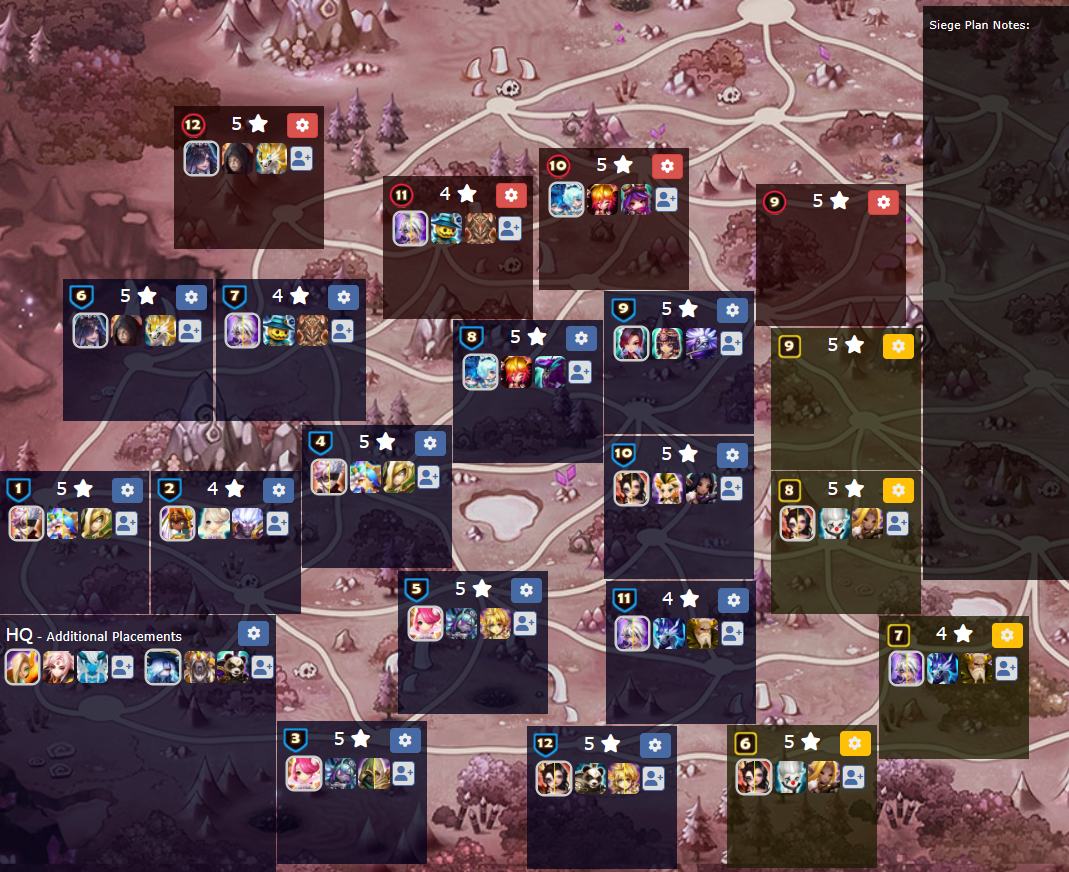
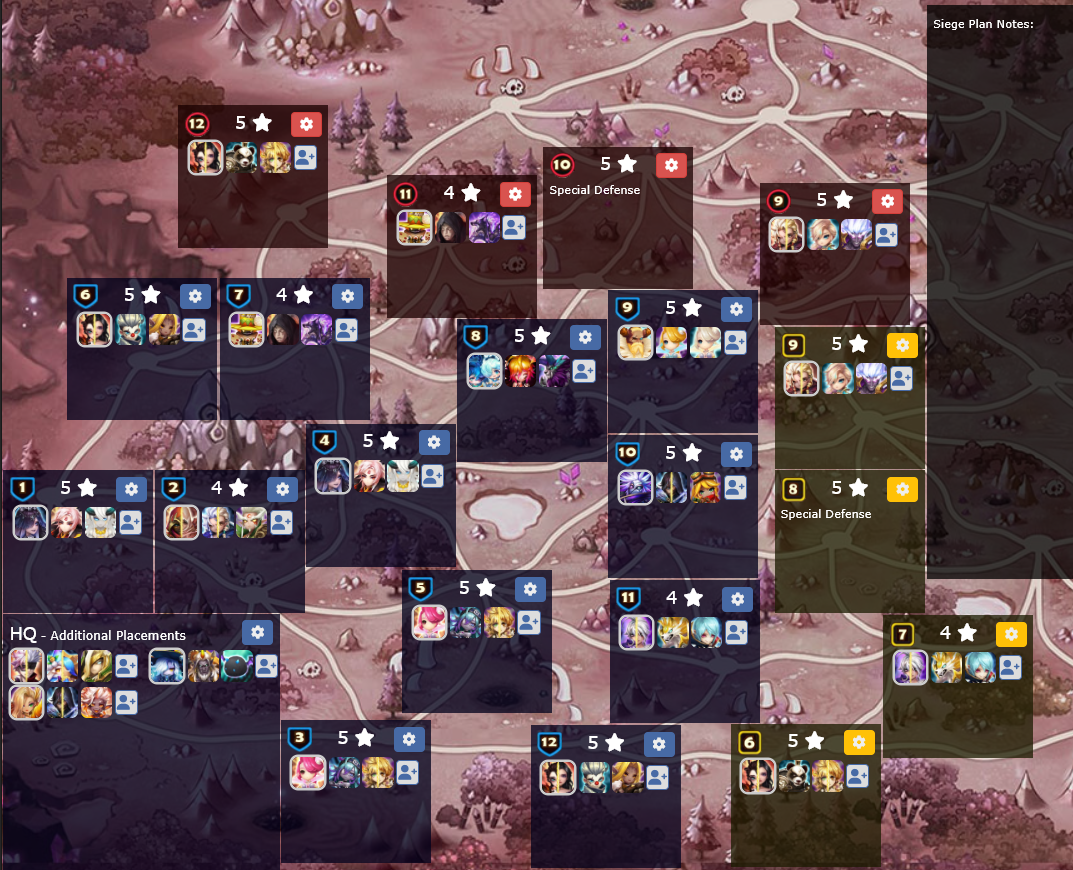
Season 21

diff --git a/index.html b/index.html
@@ -17,7 +17,7 @@
 						<div class="content">
 							<div class="inner">
 								<h1>Rock Bottom</h1>
-								<p>Season 20 Siege Defense</p>
+								<p>Season 21 Siege Defense</p>
 							</div>
 						</div>
 						<nav>
@@ -31,7 +31,7 @@
 				<!-- Main -->
 			<div id="main">
 				<article id="towers">
-					<h2 class="major">Season 20 Siege Defense</h2>
+					<h2 class="major">Season 21 Siege Defense</h2>
 					<div class="container">
 
 
@@ -39,6 +39,18 @@
 				<!-- 5 Star Towers -->
 			<div class="section">
 					<h2>NAT5<br>Defense</h2>
+
+					<div class="grid standard-pattern">
+						<img src="images/LD5/NephMaxi.png" alt="Monster">
+						<img src="images/5Star/Lionel.png" alt="Monster">
+						<div class="monster-wrapper">
+								<img src="images/5Star/Christina.png" alt="Monster">
+								<div class="alt-box">
+									<img src="images/5Star/Driana.png" alt="Alt Monster">
+								</div>
+							</div>
+						</div>
+
 								<div class="grid standard-pattern">
 									<img src="images/5Star/Tarnisha.png" alt="Monster">
 									<img src="images/5Star/Zenitsu.png" alt="Monster">
@@ -53,91 +65,55 @@
 										</div>
 									</div>
 
-									<div class="grid standard-pattern">
-										<img src="images/5Star/Tarnisha.png" alt="Monster">
-										<img src="images/5Star/Ethna.png" alt="Monster">
-										<div class="monster-wrapper">
-												<img src="images/5Star/Visa.png" alt="Monster">
-												<div class="alt-box">
-													<img src="images/LD5/Xiana.png" alt="Alt Monster">
-													<img src="images/LD5/Beelzebub.png" alt="Alt Monster">
-													<img src="images/LD5/Jaara.png" alt="Alt Monster">
-													<img src="images/LD5/Kiki.png" alt="Alt Monster">
-													<img src="images/LD5/Dyeus.png" alt="Alt Monster">
-													<img src="images/LD5/Deva.png" alt="Alt Monster">
-												</div>
-											</div>
-										</div>	
+	
 				
-									<div class="grid standard-pattern">
-										<img src="images/5Star/Tarnisha.png" alt="Monster">
-										<img src="images/5Star/Sav.png" alt="Monster">
-										<div class="monster-wrapper">
-												<img src="images/4Star/Figaro.png" alt="Monster">
-												<div class="alt-box">
-													<img src="images/LD5/Lora.png" alt="Alt Monster">
-													<img src="images/LD5/Narsha.png" alt="Alt Monster">
-													<img src="images/LD5/Xiana.png" alt="Alt Monster">
-													<img src="images/LD5/Celia.png" alt="Alt Monster">
-													<img src="images/LD5/Nyx.png" alt="Alt Monster">
+										<div class="grid standard-pattern">
+											<img src="images/5Star/Tarnisha.png" alt="Monster">
+											<img src="images/5Star/Sav.png" alt="Monster">
+											<div class="monster-wrapper">
+													<img src="images/4Star/Figaro.png" alt="Monster">
+													<div class="alt-box">
+														<img src="images/LD5/Lora.png" alt="Alt Monster">
+														<img src="images/LD5/Narsha.png" alt="Alt Monster">
+														<img src="images/LD5/Xiana.png" alt="Alt Monster">
+														<img src="images/LD5/Celia.png" alt="Alt Monster">
+													
+													</div>
 												</div>
-											</div>
-										</div>	
+											</div>	
 
 										<div class="grid standard-pattern">
-											<img src="images/5Star/Lamiella.png" alt="Monster">
-											<img src="images/4Star/Rex.png" alt="Monster">
+											<img src="images/5Star/Twin.png" alt="Monster">
+											<img src="images/5Star/Ren.png" alt="Monster">
 											<div class="monster-wrapper">
-													<img src="images/4Star/Eshir.png" alt="Monster">
+													<img src="images/LD5/Zeratu.png" alt="Monster">
 													<div class="alt-box">
-														<img src="images/LD5/Craka.png" alt="Alt Monster">
-														<img src="images/LD5/Zerath.png" alt="Alt Monster">
-														<img src="images/LD5/TL.png" alt="Alt Monster">
+														<img src="images/LD5/Cadiz.png" alt="Alt Monster">
+														<img src="images/LD5/Bella.png" alt="Alt Monster">
+														<img src="images/LD5/Ritsu.png" alt="Alt Monster">
+														<img src="images/LD5/Narsha.png" alt="Alt Monster">
+														<img src="images/LD5/Salah.png" alt="Alt Monster">
 													</div>
 												</div>
 											</div>
 				
-						<div class="grid standard-pattern">
-							<img src="images/5Star/Twin.png" alt="Monster">
-							<img src="images/5Star/Ren.png" alt="Monster">
-							<div class="monster-wrapper">
-									<img src="images/LD5/Zeratu.png" alt="Monster">
-									<div class="alt-box">
-										<img src="images/LD5/Cadiz.png" alt="Alt Monster">
-										<img src="images/LD5/Eludia.png" alt="Alt Monster">
-										<img src="images/LD5/Bella.png" alt="Alt Monster">
-										<img src="images/LD5/Ritsu.png" alt="Alt Monster">
-										<img src="images/LD5/Narsha.png" alt="Alt Monster">
+											<div class="grid modified-pattern">
+												<img src="images/5Star/Lamiella.png" alt="Monster">
+												<img src="images/5Star/Jeogun.png" alt="Monster">
+												<img class="force-white" src="images/LD5/Elsharion.png" alt="Monster">
+											</div>
 
-									</div>
-								</div>
-							</div>
-
-							<div class="grid modified-pattern">
-								<img src="images/5Star/Fire-Gojo.png" alt="Monster">
-								<img src="images/5Star/Adriana.png" alt="Monster">
-								<img class="force-white" src="images/5Star/Odin.png" alt="Monster">
-							</div>
-
-							<div class="grid standard-pattern">
-								<img src="images/4Star/Platy.png" alt="Monster">
-								<img src="images/5Star/Irene.png" alt="Monster">
-								<div class="monster-wrapper">
-										<img src="images/5Star/Zenitsu.png" alt="Monster">
-										<div class="alt-box">
-											<img src="images/5Star/Shahat.png" alt="Alt Monster">
-											<img src="images/LD5/Douman.png" alt="Alt Monster">
-											<img src="images/LD5/Audrey.png" alt="Alt Monster">
-											<img src="images/LD5/Miying.png" alt="Alt Monster">
-										</div>
-									</div>
-								</div>
+											<div class="grid modified-pattern">
+												<img src="images/4Star/Platy.png" alt="Monster">
+												<img src="images/5Star/Irene.png" alt="Monster">
+												<img class="force-white" src="images/5Star/Zenitsu.png" alt="Monster">
+											</div>
 
 										<div class="grid standard-pattern">
 												<img src="images/5Star/Ashour.png" alt="Monster">
 												<img src="images/5Star/Taranys.png" alt="Monster">
 												<div class="monster-wrapper">
-														<img src="images/5Star/Visa.png" alt="Monster">
+														<img src="images/5Star/Brita.png" alt="Monster">
 														<div class="alt-box">
 															<img src="images/LD5/Craka.png" alt="Alt Monster">
 															<img src="images/LD5/Cadiz.png" alt="Alt Monster">
@@ -148,39 +124,44 @@
 														</div>
 													</div>
 												</div>
+
+
 						</div>
 				<!-- LD Variations -->
 			<div class="section">
-				<h2>Special<br>Defense</h2>
-
-				<div class="grid modified-pattern">
-					<img src="images/LD5/NephMaxi.png" alt="Monster">
-					<img src="images/5Star/Triton.png" alt="Monster">
-					<img class="force-white" src="images/5Star/Amber.png" alt="Monster">
-				</div>	
-
+				<h2>Special<br>Defense</h2>	
 
 				<div class="grid modified-pattern">
 					<img src="images/LD5/Sylvia.png" alt="Monster">
-					<img src="images/4Star/Iris.png" alt="Monster">
-					<img class="force-white" src="images/5Star/Amber.png" alt="Monster">
+					<img src="images/4Star/Cichlid.png" alt="Monster">
+					<img class="force-white" src="images/5Star/Kumar.png" alt="Monster">
 				</div>
 
 
-					<div class="grid modified-pattern">
-						<img src="images/LD5/Sylvia.png" alt="Monster">
-						<img src="images/4Star/Hraesvelg.png" alt="Monster">
-						<img class="force-white" src="images/LD5/Elsharion.png" alt="Monster">
+				<div class="grid standard-pattern">
+					<img src="images/LD5/Sylvia.png" alt="Monster">
+					<img src="images/4Star/Iris.png" alt="Monster">
+					<div class="monster-wrapper">
+							<img src="images/5Star/Amber.png" alt="Monster">
+							<div class="alt-box">
+								<img src="images/5Star/Driana.png" alt="Alt Monster">
+							</div>
+						</div>
 					</div>
 
+					<div class="grid modified-pattern">
+						<img src="images/LD5/Rahul.png" alt="Monster">
+						<img src="images/5Star/Ren.png" alt="Monster">
+						<img class="force-white" src="images/5Star/Amber.png" alt="Monster">
+					</div>
 				
 							<div class="grid standard-pattern">
 								<img src="images/LD5/Geldnir.png" alt="Monster">
 								<img src="images/5Star/Irene.png" alt="Monster">
 								<div class="monster-wrapper">
-										<img src="images/5Star/Shahat.png" alt="Monster">
+										<img src="images/5Star/Momo.png" alt="Monster">
 										<div class="alt-box">
-											<img src="images/5Star/Zenitsu.png" alt="Alt Monster">
+											<img src="images/5Star/Shahat.png" alt="Alt Monster">
 										</div>
 									</div>
 								</div>
@@ -197,6 +178,12 @@
 									</div>
 
 
+									<div class="grid modified-pattern">
+										<img src="images/5Star/Lamiella.png" alt="Monster">
+										<img src="images/LD5/SZL.png" alt="Monster">
+										<img class="force-white" src="images/5Star/Layla.png" alt="Monster">
+									</div>
+
 									<div class="grid standard-pattern">
 										<img src="images/5Star/Chandra.png" alt="Monster">
 										<img src="images/5Star/Taranys.png" alt="Monster">
@@ -209,29 +196,6 @@
 											</div>
 										</div>
 							
-							<div class="grid standard-pattern">
-									<img src="images/5Star/Chandra.png" alt="Monster">
-									<img src="images/5Star/Odin.png" alt="Monster">
-									<div class="monster-wrapper">
-											<img src="images/LD5/Craig.png" alt="Monster">
-											<div class="alt-box">
-												<img src="images/LD5/Kovarci.png" alt="Alt Monster">
-												<img src="images/LD5/Sigrid.png" alt="Alt Monster">
-											</div>
-										</div>
-									</div>
-
-
-									<div class="grid standard-pattern">
-										<img src="images/4Star/Carcano.png" alt="Monster">
-										<img src="images/4Star/Eshir.png" alt="Monster">
-										<div class="monster-wrapper">
-												<img src="images/LD5/Cadiz.png" alt="Monster">
-												<div class="alt-box">
-													<img src="images/LD5/Salah.png" alt="Alt Monster">
-												</div>
-											</div>
-										</div>
 
 			</div>
 			<!-- Four Star Towers -->
@@ -239,22 +203,27 @@
 				<h2>NAT4<br>Defense</h2>
 				<div class="grid modified-pattern">
 					<img src="images/4Star/Ciri.png" alt="Monster">
-					<img src="images/4Star/Vigor.png" alt="Monster">
-					<img class="force-white" src="images/4Star/Hraesvelg.png" alt="Monster">
+					<img src="images/4Star/Eshir.png" alt="Monster">
+					<img class="force-white" src="images/4Star/Liesel.png" alt="Monster">
 				</div>
 
 						<div class="grid modified-pattern">
-								<img src="images/4Star/Ciri.png" alt="Monster">
-								<img src="images/4Star/Chilling.png" alt="Monster">
-								<img class="force-white" src="images/4Star/Agrius.png" alt="Monster">
+								<img src="images/4Star/Morris.png" alt="Monster">
+								<img src="images/4Star/Rex.png" alt="Monster">
+								<img class="force-white" src="images/4Star/Shumar.png" alt="Monster">
 							</div>
 
 							<div class="grid modified-pattern">
-									<img src="images/4Star/Triana.png" alt="Monster">
-									<img src="images/4Star/Molly.png" alt="Monster">
+									<img src="images/4Star/Mimirr.png" alt="Monster">
+									<img src="images/4Star/Cichlid.png" alt="Monster">
+									<img class="force-white" src="images/4Star/Molly.png" alt="Monster">
+								</div>	
+					
+								<div class="grid modified-pattern">
+									<img src="images/4Star/Solveig.png" alt="Monster">
+									<img src="images/4Star/Iris.png" alt="Monster">
 									<img class="force-white" src="images/4Star/Vritra.png" alt="Monster">
 								</div>	
-								
 						</div>
 		
 			<!-- HQ Additionals -->
@@ -262,14 +231,14 @@
 				<h2>HQ<br>Additionals</h2>
 				<div class="grid modified-pattern">
 						<img src="images/5Star/Seara.png" alt="Monster">
-						<img src="images/5Star/Jeogun.png" alt="Monster">
-						<img class="force-white" src="images/5Star/Theomars.png" alt="Monster">
+						<img src="images/5Star/Lionel.png" alt="Monster">
+						<img class="force-white" src="images/5Star/Vendhan.png" alt="Monster">
 					</div>	
 					
 					<div class="grid modified-pattern">
-						<img src="images/5Star/Momo.png" alt="Monster">
-						<img src="images/5Star/Tityus.png" alt="Monster">
-						<img class="force-white" src="images/5Star/Gapsoo.png" alt="Monster">
+						<img src="images/5Star/Fire-Gojo.png" alt="Monster">
+						<img src="images/5Star/Adriana.png" alt="Monster">
+						<img class="force-white" src="images/5Star/Odin.png" alt="Monster">
 					</div>
 
 					<div class="grid standard-pattern">
